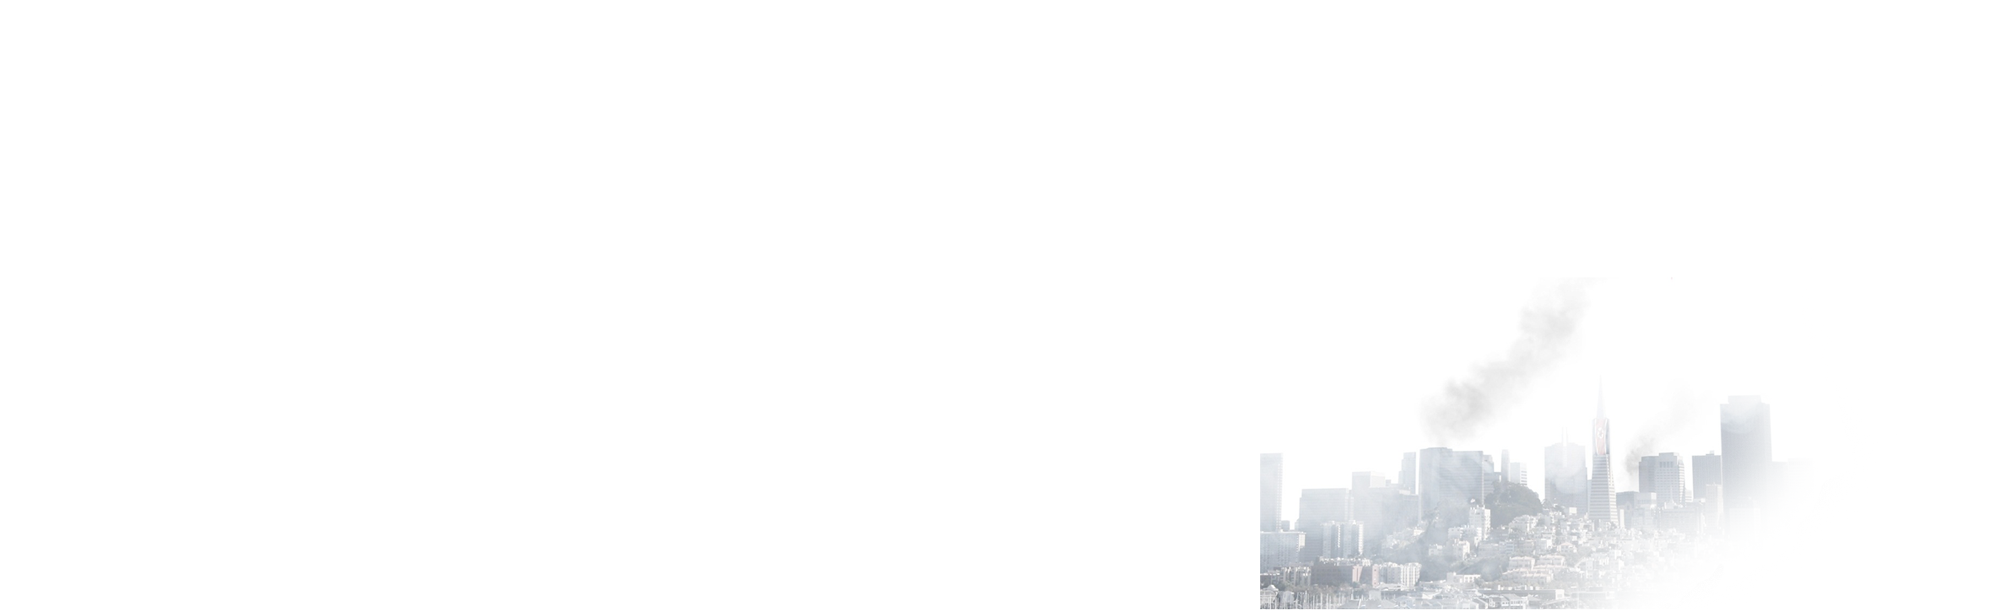
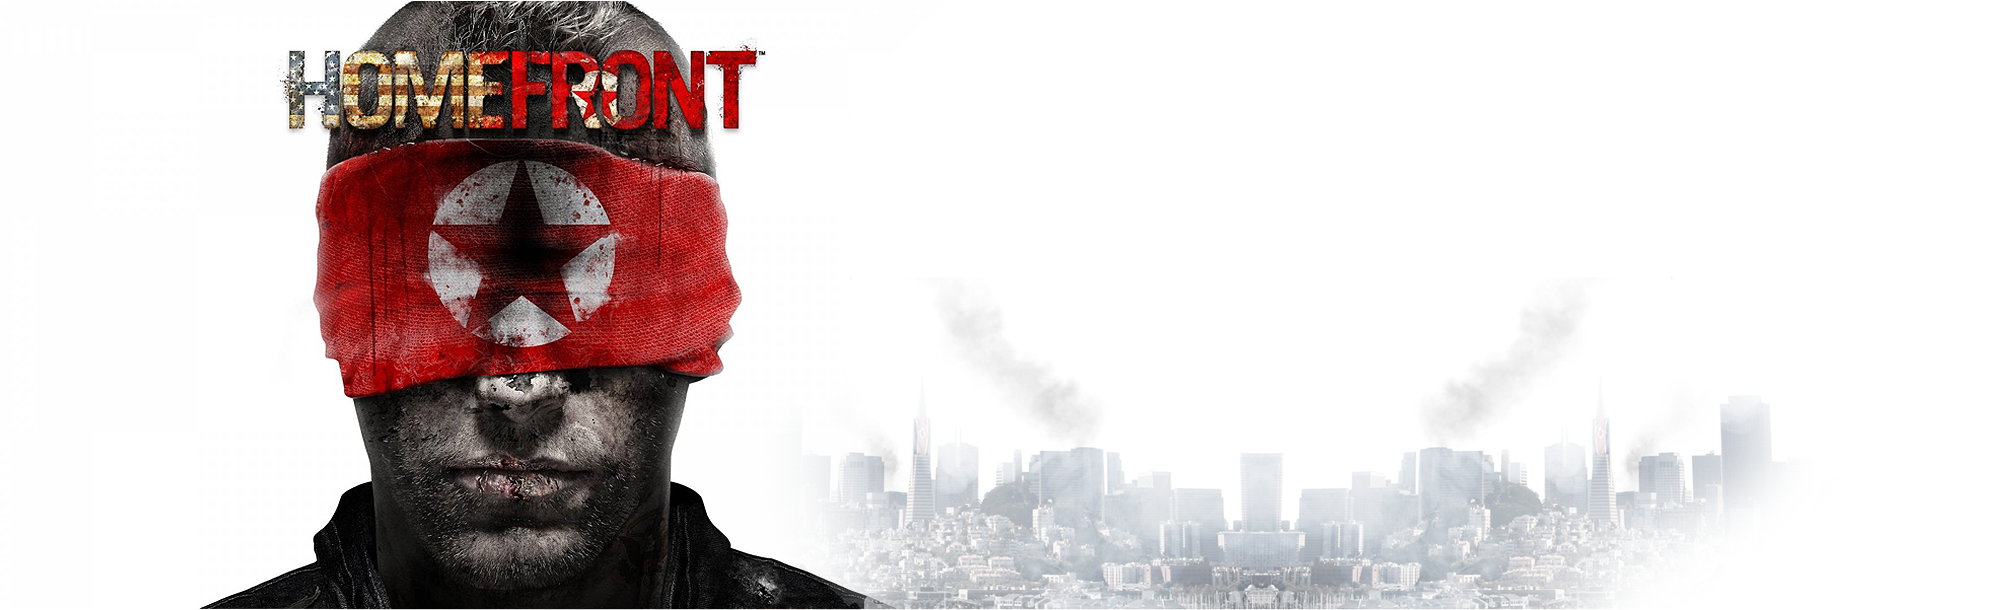
add hover for main first section

Changed region(s): [[0.093, 0.0, 0.651, 1.0], [0.496, 0.623, 0.527, 0.6852]]

diff --git a/css/style.css b/css/style.css
@@ -155,10 +155,14 @@ p{
 
 
 .homefront{
-
-    position: relative;
-    background: url(../img/main/homefront2.png) center center no-repeat;
+    background: url(../img/main/homefront.png) center center no-repeat;
     background-size: cover;
-    height: 600px;
+    height: 500px;
+    transition: all .2s;
 }
 
+
+.homefront:hover{
+    background: url(../img/main/city_homefront.png) center center no-repeat;
+    background-size: cover;
+}
